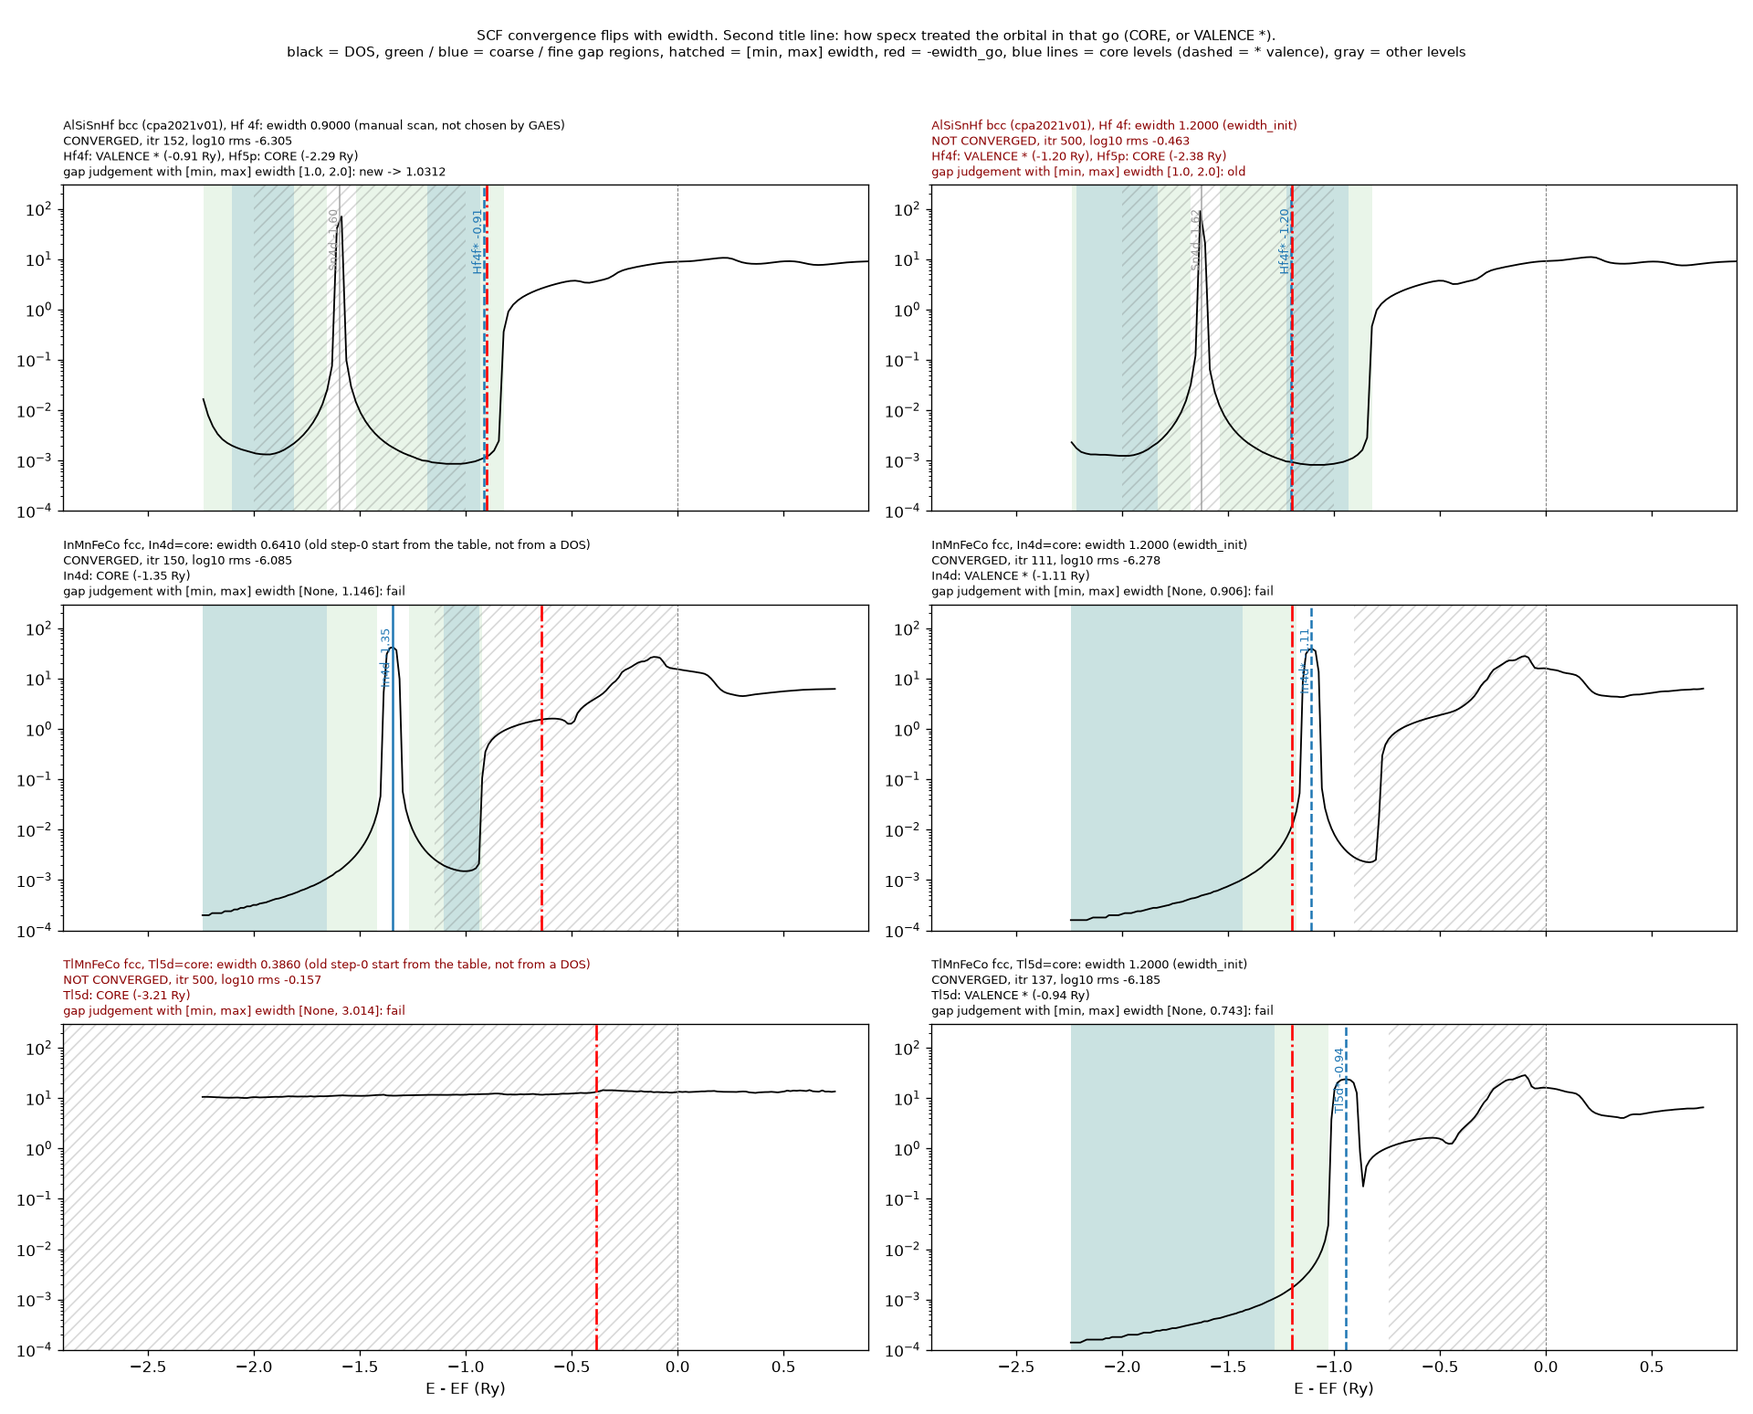
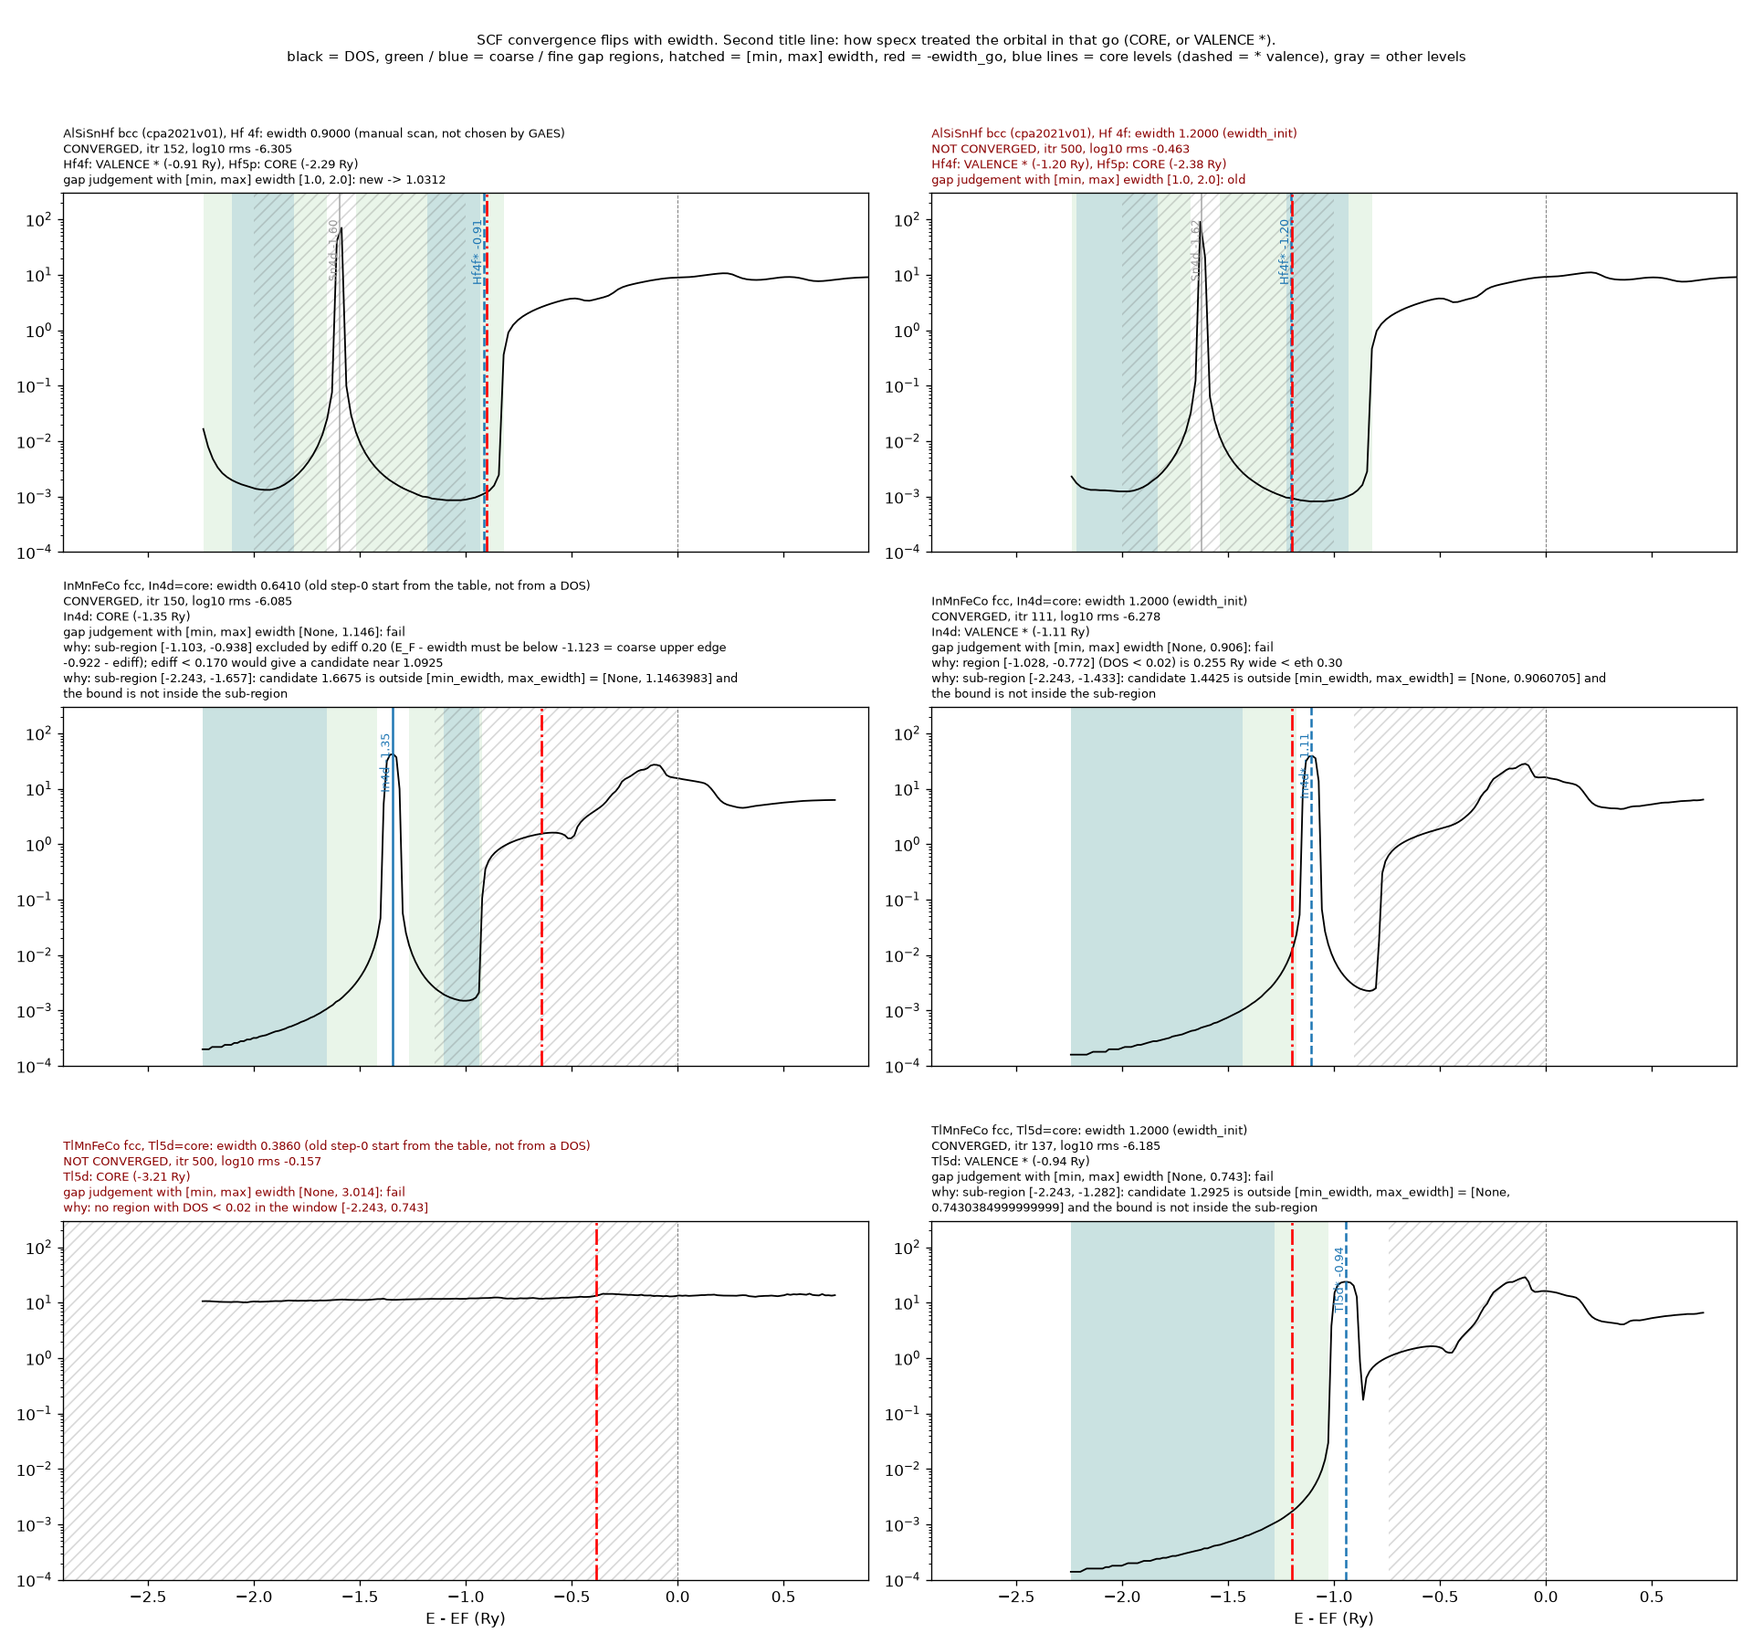
GAES: Decision.reasons explain why a region gave no candidate (eth, dosth2, ediff with the ediff that would work, bounds, window bottom); shown in KeyResult.message, kkr-gaes check and the figures

diff --git a/library/PyAkaiKKR/src/pyakaikkr/gaes/ewidth.py b/library/PyAkaiKKR/src/pyakaikkr/gaes/ewidth.py
@@ -102,6 +102,7 @@ class Decision:
     gap_used: Optional[GapRegion] = None       # fine sub-region anchoring -ewidth when flag == old
     dosth2_used: Optional[float] = None
     window_limited: bool = False               # a coarse region touches the bottom of the dos window (ignored)
+    reasons: List[str] = field(default_factory=list)   # why a region gave no candidate (fail diagnosis)
 
 
 def _sorted_coarse(regions):
@@ -135,6 +136,11 @@ def choose_ewidth2(energy, curves, ewidth, dosth=2e-2, dosth2=DOSTH2, eth=ETH, e
     coarse_all = gap_regions(energy, curves, dosth=dosth)
     coarse = _sorted_coarse([g for g in coarse_all if g.width > eth])
     dec = Decision(flag="fail", ewidth=None, coarse=coarse, dosth2_used=dosth2)
+    if not coarse_all:
+        dec.reasons.append("no region with DOS < {:g} in the window [{:.3f}, {:.3f}]".format(dosth, float(np.min(energy)), float(np.max(energy))))
+    for g in coarse_all:
+        if g.width <= eth:
+            dec.reasons.append("region [{:.3f}, {:.3f}] (DOS < {:g}) is {:.3f} Ry wide < eth {:.2f}".format(g.e1, g.e2, dosth, g.width, eth))
     cands = []
     e_min = float(np.min(energy))
     may_keep = ewidth is not None and within_bounds(ewidth, min_ewidth, max_ewidth)
@@ -152,6 +158,10 @@ def choose_ewidth2(energy, curves, ewidth, dosth=2e-2, dosth2=DOSTH2, eth=ETH, e
             if fine:
                 dec.relaxed = True
                 dec.dosth2_used = th2
+        if not fine:
+            sel = (energy >= g.e1) & (energy <= g.e2)
+            dmin = float(min(np.min(c[sel]) for c in curves)) if np.any(sel) else float("nan")
+            dec.reasons.append("coarse region [{:.3f}, {:.3f}]: no sub-region with DOS < {:g} (minimum DOS {:.2e})".format(g.e1, g.e2, th2, dmin))
         fine = sorted(fine, key=lambda f: -f.e2)
         dec.fine.extend(fine)
         for f in fine:
@@ -162,11 +172,24 @@ def choose_ewidth2(energy, curves, ewidth, dosth=2e-2, dosth2=DOSTH2, eth=ETH, e
             if hi - margin > lo:
                 # shallowest position inside the fine sub-region below top; moved to the
                 # min/max bound when outside the limits as long as it stays inside (lo, hi)
-                c = _clip_candidate(-(hi - margin), lo, hi + 1e-12, min_ewidth, max_ewidth)
+                raw = -(hi - margin)
+                c = _clip_candidate(raw, lo, hi + 1e-12, min_ewidth, max_ewidth)
                 if c is not None:
                     cands.append(c)
+                else:
+                    dec.reasons.append("sub-region [{:.3f}, {:.3f}]: candidate {:.4f} is outside [min_ewidth, max_ewidth] = [{}, {}] "
+                                       "and the bound is not inside the sub-region".format(f.e1, f.e2, raw, min_ewidth, max_ewidth))
             elif floor is not None:
                 dec.window_limited = True   # usable part of a window-bottom region is too small
+                dec.reasons.append("sub-region [{:.3f}, {:.3f}] touches the window bottom: less than eth {:.2f} of low DOS verified "
+                                   "below E_F - ewidth (usable part above {:.3f} is empty)".format(f.e1, f.e2, eth, floor))
+            else:
+                # the sub-region lies within ediff of the coarse upper edge: ediff excludes it.
+                # ediff < e2 - f1 - margin would leave room (candidate about -f1)
+                ediff_max = g.e2 - lo - margin
+                dec.reasons.append("sub-region [{:.3f}, {:.3f}] excluded by ediff {:.2f} (E_F - ewidth must be below {:.3f} = coarse upper edge "
+                                   "{:.3f} - ediff); ediff < {:.3f} would give a candidate near {:.4f}".format(
+                                       f.e1, f.e2, ediff, top, g.e2, ediff_max, -lo - margin if ediff_max > 0 else float("nan")))
     dec.candidates = cands
     if dec.gap_used is not None:
         dec.flag, dec.ewidth = "old", ewidth

diff --git a/library/PyAkaiKKR/src/pyakaikkr/gaes/scheme.py b/library/PyAkaiKKR/src/pyakaikkr/gaes/scheme.py
@@ -51,6 +51,7 @@ class Judgement:
     orbital_levels: Dict[str, list] = field(default_factory=dict)   # 'Rb4p': [E - E_F, star] from the go outputs
     orbital_bounds: Optional[list] = None                            # [min_ewidth, max_ewidth] used for this judgement
     orbital_mismatch: List[dict] = field(default_factory=list)      # rules the go output does not satisfy
+    reasons: List[str] = field(default_factory=list)                # why regions gave no candidate (fail diagnosis)
 
 
 @dataclass
@@ -253,7 +254,8 @@ class Gaes:
                       ewidth_dos=next(iter(runners.values())).ewidth_dos_used if runners else None,
                       method=self.method, fine_regions=[list(f.as_tuple()) for f in dec.fine], relaxed=dec.relaxed,
                       dosth2_used=dec.dosth2_used, window_limited=dec.window_limited,
-                      orbital_levels=levels_as_dict(levels), orbital_bounds=bounds.as_list(), orbital_mismatch=mismatch)
+                      orbital_levels=levels_as_dict(levels), orbital_bounds=bounds.as_list(), orbital_mismatch=mismatch,
+                      reasons=list(dec.reasons))
         for p, r in runners.items():
             if r.ref_effective is not None and abs(r.ref_effective - self.ref) > 0.05:
                 self.logger.warning("polytyp %s: dos window gives ref=%.3f but Gaes(ref=%.3f); the window "
@@ -357,9 +359,10 @@ class Gaes:
 
     def _finish(self, res, status, ewidth, runners, converged, judgement):
         res.status = status
-        if status == "ewidth_fail" and judgement is not None and judgement.orbital_bounds and not res.message:
-            res.message = "no gap candidate inside [min_ewidth, max_ewidth] = {}{}".format(
-                judgement.orbital_bounds, " (orbital rules {})".format([str(r) for r in self.orbitals]) if self.orbitals else "")
+        if status == "ewidth_fail" and judgement is not None and not res.message:
+            res.message = "no gap candidate inside [min_ewidth, max_ewidth] = {}{}: {}".format(
+                judgement.orbital_bounds, " (orbital rules {})".format([str(r) for r in self.orbitals]) if self.orbitals else "",
+                "; ".join(judgement.reasons) or "no reason recorded")
         res.ewidth_final = ewidth
         res.converged = dict(converged)
         res.final = {p: r.directory for p, r in runners.items()}

diff --git a/tests/gaes/tools/plot_conv_pairs.py b/tests/gaes/tools/plot_conv_pairs.py
@@ -1,5 +1,5 @@
 """DOS of go runs where a small change of ewidth flips the SCF convergence (spec section 12 note)."""
-import re, glob, os
+import re, glob, os, textwrap
 import matplotlib
 matplotlib.use("Agg"); import matplotlib.pyplot as plt
 from pyakaikkr import AkaikkrJob
@@ -30,7 +30,7 @@ def info(d):
     txt = open(d + "/out_go.log").read()
     itr = re.findall(r"itr=\s*(\d+)", txt); err = re.findall(r"rms err=\s*(-?\d+\.\d+)", txt)
     return (int(itr[-1]) if itr else None), (float(err[-1]) if err else None), ("cpu time" in txt or "sbrtime" in txt)
-fig, axes = plt.subplots(len(PAIRS), 2, figsize=(16, 4.3 * len(PAIRS)), sharex=True)
+fig, axes = plt.subplots(len(PAIRS), 2, figsize=(16, 5.0 * len(PAIRS)), sharex=True)
 for row, (name, keys, runs) in enumerate(PAIRS):
     for col, (d, ew, bounds) in enumerate(runs):
         ax = axes[row, col]
@@ -44,9 +44,10 @@ for row, (name, keys, runs) in enumerate(PAIRS):
         # how specx treated the orbital concerned in this go: '*' = valence (inside the contour), else core
         roles = ", ".join("%s: %s (%.2f Ry)" % (k, "VALENCE *" if lv[k].star else "CORE", lv[k].e) for k in keys if k in lv)
         bl = "[%s, %s]" % tuple(None if b is None else round(b, 3) for b in bounds) if bounds else "none"
-        ax.set_title("%s: ewidth %.4f (%s)\n%s, itr %s, log10 rms %s\n%s\ngap judgement with [min, max] ewidth %s: %s%s" % (
+        why = ("\n" + "\n".join(textwrap.fill("why: " + r, 110) for r in dec.reasons)) if flag == "fail" else ""
+        ax.set_title("%s: ewidth %.4f (%s)\n%s, itr %s, log10 rms %s\n%s\ngap judgement with [min, max] ewidth %s: %s%s%s" % (
             name, ew, START_NOTE.get(ew, ""), "CONVERGED" if conv else "NOT CONVERGED", n, err, roles, bl, flag,
-            " -> %.4f" % dec.ewidth if flag == "new" else ""), fontsize=8, loc="left",
+            " -> %.4f" % dec.ewidth if flag == "new" else "", why), fontsize=8, loc="left",
             color="k" if conv else "darkred")
 for ax in axes[-1]: ax.set_xlabel("E - EF (Ry)")
 fig.suptitle("SCF convergence flips with ewidth. Second title line: how specx treated the orbital in that go (CORE, or VALENCE *).\n" + legend_text(), fontsize=9)

diff --git a/tests/gaes/tools/plot_orbital_rules.py b/tests/gaes/tools/plot_orbital_rules.py
@@ -1,5 +1,5 @@
 """DOS of the last judgement of every orbital-rule GAES run (RUN_orb*), with the rule's level, the bounds band and the regions."""
-import json, glob, os, sys
+import json, glob, os, sys, textwrap
 import matplotlib
 matplotlib.use("Agg"); import matplotlib.pyplot as plt
 from pyakaikkr import AkaikkrJob
@@ -12,7 +12,7 @@ for k in sorted(glob.glob("RUN_orb*/*/key_*.json")):
     tag = os.path.basename(os.path.dirname(k)); cases[tag] = k
 order = sys.argv[1:] or sorted(cases)
 n = len(order); ncol = 2; nrow = (n + 1) // 2
-fig, axes = plt.subplots(nrow, ncol, figsize=(16, 3.3 * nrow), sharex=True); axes = axes.ravel()
+fig, axes = plt.subplots(nrow, ncol, figsize=(16, 3.9 * nrow), sharex=True); axes = axes.ravel()
 for ax, tag in zip(axes, order):
     d = json.load(open(cases[tag])); rules = d["parameters"].get("orbitals", []); pr = d["parameters"]
     jf = d["judgements"][-1]; dd = list(jf["directories"].values())[0]
@@ -22,9 +22,10 @@ for ax, tag in zip(axes, order):
                          margin=pr["margin"], dosth2_relax=pr["dosth2_relax"], min_ewidth=lo, max_ewidth=hi)
     draw_gaes_dos(ax, e, c[0], ewidth=jf["ewidth"], decision=dec, bounds=(lo, hi), levels=lv,
                   highlight=[r.split("=")[0] for r in rules], xlim=(-2.9, 0.9))
-    ax.set_title("%s: %s, ewidth %.4f, conv=%s, bounds [%s, %s], tried %s" % (
+    why = ("\n" + "\n".join(textwrap.fill("why: " + r, 120) for r in dec.reasons)) if dec.flag == "fail" else ""
+    ax.set_title("%s: %s, ewidth %.4f, conv=%s, bounds [%s, %s], tried %s%s" % (
         tag, d["status"], jf["ewidth"], d["converged"].get("fcc"), lo and round(lo, 3), hi and round(hi, 3),
-        [round(t, 3) for t in d["ewidth_tried"]]), fontsize=8, loc="left")
+        [round(t, 3) for t in d["ewidth_tried"]], why), fontsize=8, loc="left")
 for ax in axes[len(order):]: ax.axis("off")
 for ax in axes[-ncol:]: ax.set_xlabel("E - EF (Ry)")
 fig.suptitle("GAES with orbital rules (X-Mn-Fe-Co fcc): last judgement DOS. " + legend_text(), fontsize=9)

diff --git a/tests/gaes/test_method2.py b/tests/gaes/test_method2.py
@@ -102,3 +102,25 @@ def test_candidate_is_clipped_to_the_bounds_inside_the_gap():
     from pyakaikkr.gaes import decide
     m1 = decide(1, e, [d], 1.2, dosth=2e-2, min_ewidth=1.0, max_ewidth=2.0)
     assert m1.flag == "old"   # at 2e-2 the coarse gap [-1.3, -0.5] contains -1.2
+
+
+def test_fail_carries_reasons():
+    """a 'fail' says why each region gave no candidate (In-Mn-Fe-Co In4d=core case: the gap between
+    the 4d and the valence band is 0.35 Ry wide but never below 1e-3, and ediff = 0.2 leaves no room)."""
+    e = np.linspace(-2.2425, 0.7425, 400)
+    d = np.full_like(e, 3e-3)                       # gap between the 4d and the valence band: 2e-3 .. 3e-3
+    d[(e > -1.10) & (e < -0.94)] = 1.5e-3           # its lowest part (found only with the relaxed 2e-3)
+    d[e > -0.92] = 5.0                              # valence band bottom
+    d[(e > -1.45) & (e < -1.27)] = 40.0             # In 4d (core) peak
+    d[e < -1.45] = 5e-4
+    m = choose_ewidth2(e, [d], 0.641, dosth=2e-2, dosth2=1e-3, eth=0.3, ediff=0.2, max_ewidth=1.146)
+    assert m.flag == "fail" and m.relaxed
+    txt = " | ".join(m.reasons)
+    assert "excluded by ediff 0.20" in txt and "outside [min_ewidth, max_ewidth]" in txt
+    m = choose_ewidth2(e, [d], 0.641, dosth=2e-2, dosth2=1e-3, eth=0.3, ediff=0.1, max_ewidth=1.146)
+    assert m.flag == "new" and 1.0 < m.ewidth < 1.15
+    d2 = np.full_like(e, 5.0); d2[(e > -1.2) & (e < -1.0)] = 1e-4     # only a 0.2 Ry wide dip
+    m = choose_ewidth2(e, [d2], 1.1, dosth=2e-2, eth=0.3)
+    assert m.flag == "fail" and any("< eth 0.30" in r for r in m.reasons)
+    m = choose_ewidth2(e, [np.full_like(e, 5.0)], 1.1, dosth=2e-2)
+    assert m.flag == "fail" and any("no region with DOS <" in r for r in m.reasons)

diff --git a/library/PyAkaiKKR/src/pyakaikkr/gaes/cli.py b/library/PyAkaiKKR/src/pyakaikkr/gaes/cli.py
@@ -132,6 +132,8 @@ def cmd_check(args):
     print("ewidth {:.4f}: {}".format(args.ewidth, dec.flag),
           "" if dec.flag == "fail" else "next {:.4f}".format(dec.ewidth) if dec.flag == "new" else "keep")
     print("candidates:", ", ".join("{:.4f}".format(c) for c in dec.candidates))
+    for r in dec.reasons:
+        print("  note:", r)
 
 
 def cmd_collect(args):

diff --git a/docs/ewidth_tuning_scheme.md b/docs/ewidth_tuning_scheme.md
@@ -219,7 +219,7 @@ def choose_ewidth2(energy, curves, ewidth, *, dosth=2e-2, dosth2=1e-3, eth=0.30,
 2. **細かい部分区間**: 各粗い区間 [e1, e2] の内側で `gap_regions(energy, curves, dosth2)` を求める（粗い区間の内側にある区間だけ。幅の下限は課さない）。
 3. **上端の余裕**: 粗い区間の上端（valence 帯の底）から `top = e2 − ediff` を取る。−ewidth は `top` より下でなければならない（Method 1 の条件 3 と同じ）。
 4. **判定 `old`**: いまの −ewidth が、いずれかの粗い区間の細かい部分区間の中にあり、かつ −ewidth < top なら `old`。
-5. **候補**: 各粗い区間について、各細かい部分区間 [f1, f2] に対して `hi = min(f2, top)` を取り、`hi − margin > f1` なら候補 `−(hi − margin)`。つまり「DOS < dosth2 の範囲の中で、valence 帯の底から ediff 以上離れた最も浅い位置」に積分路の下端を置く。細かい部分区間が複数あれば上（高エネルギー側）のものを先に、粗い区間は高エネルギー側から並べる（mesh 下端に接するものは最後）。候補が `min_ewidth`〜`max_ewidth` の外にあるときは、**捨てずに範囲の端へ寄せ**、寄せた位置がまだ細かい部分区間の中（かつ top より下）にあればそれを候補にする（2026-09-25 修正。それ以前は候補 1 点が範囲外なら区間ごと捨てていたため、Pr/Nd/Pm-Mn-Fe-Co の 5p 帯の上のギャップ [−1.18, −0.77]（候補 0.78）が min_ewidth=1.0 で消え、1.0〜1.17 という範囲内の位置を試さなかった）。Method 1 の候補も同じ扱い。**ギャップ区間かどうかの判定（手順 1〜4）は `min_ewidth` / `max_ewidth` に依らず dos の窓全体で行う**。範囲 [min_ewidth, max_ewidth] は ewidth を選ぶ（手順 5）ときだけに使う（2026-09-25 ユーザー指定）。したがって範囲の外にあるギャップ区間も判定結果（`regions` / `fine_regions`、DOS の図の緑 / 青）には残る。DOS の図には [E_F − max_ewidth, E_F − min_ewidth] の帯（斜線）も描く。
+5. **候補**: 各粗い区間について、各細かい部分区間 [f1, f2] に対して `hi = min(f2, top)` を取り、`hi − margin > f1` なら候補 `−(hi − margin)`。つまり「DOS < dosth2 の範囲の中で、valence 帯の底から ediff 以上離れた最も浅い位置」に積分路の下端を置く。細かい部分区間が複数あれば上（高エネルギー側）のものを先に、粗い区間は高エネルギー側から並べる（mesh 下端に接するものは最後）。候補が `min_ewidth`〜`max_ewidth` の外にあるときは、**捨てずに範囲の端へ寄せ**、寄せた位置がまだ細かい部分区間の中（かつ top より下）にあればそれを候補にする（2026-09-25 修正。それ以前は候補 1 点が範囲外なら区間ごと捨てていたため、Pr/Nd/Pm-Mn-Fe-Co の 5p 帯の上のギャップ [−1.18, −0.77]（候補 0.78）が min_ewidth=1.0 で消え、1.0〜1.17 という範囲内の位置を試さなかった）。Method 1 の候補も同じ扱い。`fail` のときは、区間ごとに候補が出なかった理由を `Decision.reasons`（`Judgement.reasons`、`KeyResult.message`、aiida の history `reasons`、`kkr-gaes check` の `note:`）に残す: 幅 eth 未満、DOS < dosth2 の部分区間無し（最小 DOS を併記）、ediff で除外（ediff がいくつ未満なら候補がいくつになるかを併記。例: In-Mn-Fe-Co の In 4d core、[−1.10, −0.94] は「ediff < 0.17 なら候補 ≈ 1.09」）、範囲外、窓の下端。**ギャップ区間かどうかの判定（手順 1〜4）は `min_ewidth` / `max_ewidth` に依らず dos の窓全体で行う**。範囲 [min_ewidth, max_ewidth] は ewidth を選ぶ（手順 5）ときだけに使う（2026-09-25 ユーザー指定）。したがって範囲の外にあるギャップ区間も判定結果（`regions` / `fine_regions`、DOS の図の緑 / 青）には残る。DOS の図には [E_F − max_ewidth, E_F − min_ewidth] の帯（斜線）も描く。
 6. **細かい部分区間が無いとき**（ギャップの底が dosth2 をわずかに超える場合。例: AlSiGeBi の底 1.04e-3）: dosth2 を `dosth2 × dosth2_relax`（既定 2 倍）に緩めて 2〜5 をやり直す。それでも無ければその粗い区間は候補を出さない。緩めた事実は `Decision.relaxed=True` として記録する。
 7. 候補が 1 つも無ければ `fail`、あれば `new` と先頭候補。
 
